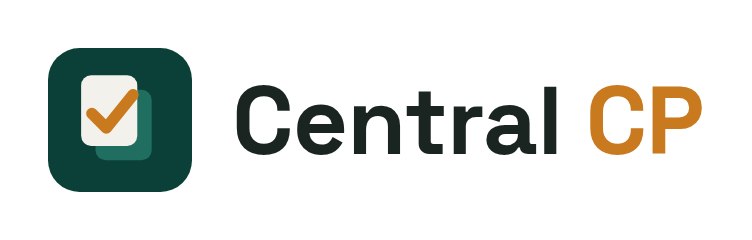
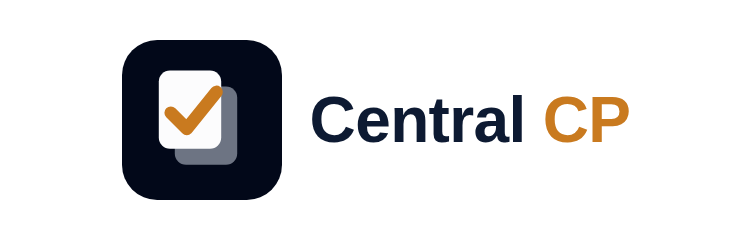
Reskin: nova paleta corporativa em modo escuro (#71)
Substitui o tema claro (fundo bege, marca verde) pela paleta corporativa
nova (Azul Profundo/Noturno, Preto Executivo, Branco Corporativo, Cinza
Técnico/Neutro) -- app em modo escuro por padrão. Como a paleta só tem 6
cores fixas, algumas variações precisaram ser derivadas: os "-soft"
semânticos (amber/alert/good/info) viram a própria cor em baixa opacidade;
--brand-light e --brand-soft são o Azul Profundo clareado (40% e 20% em
direção ao branco) e passam a ser usados também como TEXTO onde antes era
--brand-dark, que ficou escuro demais pra ler depois que o fundo virou
preto (note-box, lote-badge, chat-bubble.pergunta, form-section-title,
etc.).

Ícone e wordmark recoloridos pra bater com a paleta nova (fundo/borda/
folha do documento no SVG da marca), com os PNGs do PWA (favicon,
apple-touch-icon, ícones 192/512/maskable) e o lockup do README
regenerados a partir do SVG atualizado.

Claude-Session: https://claude.ai/code/session_0115Ef8fjvBWV4XGmwLk9xa6

Changed region(s): [[0.0612, 0.1458, 0.9481, 0.8458]]

diff --git a/src/css/styles.css b/src/css/styles.css
@@ -1,24 +1,38 @@
 :root{
-    --ink:#1A2421; --ink-soft:#5B6B63; --paper:#F2F1EC; --surface:#FFFFFF; --line:#DCDCD2;
-    --brand:#0F5C52; --brand-dark:#0A4038; --brand-light:#1F6E5F; --brand-soft:#E3EEEB;
-    --amber:#C97A1F; --amber-soft:#FBEEDC;
-    --alert:#B3431F; --alert-soft:#FAE7DD;
-    --good:#2E7D52; --good-soft:#E5F1E9;
-    --info:#2E5EAA; --info-soft:#E1E9F7;
-    --gray-soft:#ECEBE4;
-    /* Rampa ordinal (uma cor só, claro->escuro) pras 5 etapas "em andamento"
+    /* Paleta corporativa (Azul Profundo/Noturno, Preto Executivo, Branco
+       Corporativo, Cinza Técnico/Neutro) -- app em modo escuro por padrão.
+       A paleta só tem 6 cores fixas; onde não havia um tom "claro"/pastel
+       pronto pra fundo de badge ou um tom vibrante pra contraste em cima do
+       fundo quase preto, derivei (marcado abaixo): "-soft" das cores
+       semânticas (amber/alert/good/info) vira a própria cor em baixa
+       opacidade (se adapta sozinha ao fundo escuro). Já --brand-soft e
+       --brand-light são o Azul Profundo clareado em direção ao branco (20%
+       e 40%) -- ficam cores SÓLIDAS, não translúcidas, porque testei
+       contraste real: uma versão translúcida do Azul Profundo (que já é
+       bem escuro) quase não se distingue do fundo já escuro por trás;
+       --brand-light passa 4.5:1 de contraste sobre --paper, então também
+       vira o texto "de marca" onde antes era --brand-dark (que ficou
+       escuro demais pra ler como texto depois que o fundo virou preto). */
+    --ink:#FCFCFD; --ink-soft:#5F636B; --paper:#00010B; --surface:#020819; --line:#BABABE;
+    --line-soft:rgba(186,186,190,0.18);
+    --brand:#0D1A32; --brand-dark:#020819; --brand-light:#6D7483; --brand-soft:#3D475B;
+    --amber:#C97A1F; --amber-soft:rgba(201,122,31,0.18);
+    --alert:#B3431F; --alert-soft:rgba(179,67,31,0.18);
+    --good:#2E7D52; --good-soft:rgba(46,125,82,0.18);
+    --info:#2E5EAA; --info-soft:rgba(46,94,170,0.18);
+    --gray-soft:rgba(95,99,107,0.18);
+    /* Rampa ordinal (uma cor só, clara->escura) pras 5 etapas "em andamento"
        da esteira (lançado -> aprovado -> lançado no Group -> chamado aberto
        -> validado CSC) -- mostra a ORDEM da esteira em vez de uma cor
        arbitrária por etapa (que não tem nenhum significado categórico
        verdadeiro; é uma progressão, não uma lista de opções). "Pago" e
        "Cancelada" continuam com cor própria (--good/--alert) por serem
-       estados terminais de verdade, não passos no meio do caminho. Validado
-       com o script validate_palette.js (skill dataviz): todos os 5 passos
-       cobrem 4.5:1 de contraste como texto sobre --paper, e a rampa lê como
-       progressão (L monotônica, mesmo hue, degraus >= 0.06 em OKLCH).
+       estados terminais de verdade, não passos no meio do caminho.
+       Reconstruída na família do Azul Profundo (mistura em direção ao
+       branco) pra continuar legível como texto sobre o novo --paper escuro.
     */
-    --seq-1:#167669; --seq-2:#105B51; --seq-3:#0B443D; --seq-4:#062D28; --seq-5:#031714;
-    --shadow: 0 1px 2px rgba(20,30,26,0.06), 0 4px 16px rgba(20,30,26,0.06);
+    --seq-1:#6E86B8; --seq-2:#4C6491; --seq-3:#33456B; --seq-4:#1D2C48; --seq-5:#0D1A32;
+    --shadow: 0 1px 2px rgba(0,0,0,0.35), 0 4px 16px rgba(0,0,0,0.45);
   }
   *{box-sizing:border-box;}
   body{margin:0; background:var(--paper); color:var(--ink); font-family:'Inter',sans-serif; font-size:14px; line-height:1.5;}
@@ -65,7 +79,7 @@
   .anexos-lista li a[data-mover-anexo-novo]{color:var(--ink-soft); font-size:13px;}
   .anexos-lista li a[data-mover-anexo-novo]:hover{color:var(--brand);}
   .btn{border:none; border-radius:8px; padding:10px 18px; font-weight:600; font-size:13px; display:inline-flex; align-items:center; gap:6px;}
-  .btn-brand{background:var(--brand); color:#fff;}
+  .btn-brand{background:var(--brand); color:var(--ink); border:1px solid var(--brand-light);}
   .btn-brand:hover{background:var(--brand-dark);}
   .btn-block{width:100%; justify-content:center; padding:11px;}
   .btn-ghost{background:transparent; color:var(--ink-soft); border:1px solid var(--line);}
@@ -77,13 +91,13 @@
      brigando/vencendo dela sem querer -- foi exatamente esse bug que fez
      "+ Nova nota" perder o fundo amber (ver histórico do CSS). */
   .btn-ghost-dark{background:transparent; color:rgba(255,255,255,0.85); border:1px solid rgba(255,255,255,0.2);}
-  .btn-ghost-dark:hover{background:rgba(255,255,255,0.08); color:#fff;}
-  .btn-amber{background:var(--amber); color:#fff;}
-  .btn-alert{background:var(--alert); color:#fff;}
-  .btn-good{background:var(--good); color:#fff;}
+  .btn-ghost-dark:hover{background:rgba(255,255,255,0.08); color:var(--ink);}
+  .btn-amber{background:var(--amber); color:var(--ink);}
+  .btn-alert{background:var(--alert); color:var(--ink);}
+  .btn-good{background:var(--good); color:var(--ink);}
   .btn-sm{padding:7px 12px; font-size:12px;}
   .err-msg{background:var(--alert-soft); color:var(--alert); padding:10px 12px; border-radius:8px; font-size:13px; margin-bottom:14px;}
-  .note-box{background:var(--brand-soft); color:var(--brand-dark); padding:10px 12px; border-radius:8px; font-size:12px; margin-bottom:16px;}
+  .note-box{background:var(--brand-soft); color:var(--brand-light); padding:10px 12px; border-radius:8px; font-size:12px; margin-bottom:16px;}
 
   /* ---------- App shell ---------- */
   .shell{display:flex; min-height:100vh; position:relative;}
@@ -93,7 +107,7 @@
      mundo com ela. Fixa a sidebar no viewport; overflow-y:auto deixa ELA
      MESMA rolar por dentro se algum dia tiver nav item demais, sem
      depender do tamanho do conteúdo principal.  */
-  .sidebar{width:240px; background:var(--brand-dark); color:#fff; flex-shrink:0; display:flex; flex-direction:column; padding:20px 16px; position:sticky; top:0; height:100vh; overflow-y:auto; transition:width .18s ease, padding .18s ease;}
+  .sidebar{width:240px; background:var(--brand-dark); color:var(--ink); flex-shrink:0; display:flex; flex-direction:column; padding:20px 16px; position:sticky; top:0; height:100vh; overflow-y:auto; transition:width .18s ease, padding .18s ease;}
   /* Sidebar retrátil (pedido do dono do produto: notebook pequeno + monitor
      externo quer ganhar espaço) -- recolhe a largura a zero em vez de um
      modo "só ícones", porque os itens de nav não têm ícone próprio hoje.
@@ -113,10 +127,10 @@
   .role-pill{display:inline-block; margin-top:5px; font-size:10.5px; font-weight:700; letter-spacing:0.04em; text-transform:uppercase; padding:2px 8px; border-radius:99px; background:rgba(255,255,255,0.18);}
   .sb-nav{display:flex; flex-direction:column; gap:3px; flex:1;}
   .sb-nav button{text-align:left; background:transparent; border:none; color:rgba(255,255,255,0.78); padding:9px 11px; border-radius:8px; font-size:13.5px; font-weight:500; display:flex; justify-content:space-between; align-items:center;}
-  .sb-nav button:hover{background:rgba(255,255,255,0.08); color:#fff;}
-  .sb-nav button.active{background:rgba(255,255,255,0.16); color:#fff; font-weight:600;}
+  .sb-nav button:hover{background:rgba(255,255,255,0.08); color:var(--ink);}
+  .sb-nav button.active{background:rgba(255,255,255,0.16); color:var(--ink); font-weight:600;}
   .sb-nav .count{background:rgba(255,255,255,0.16); border-radius:99px; font-size:11px; padding:1px 7px; font-family:'JetBrains Mono';}
-  .sb-nav button.active .count{background:var(--amber); color:#fff;}
+  .sb-nav button.active .count{background:var(--amber); color:var(--ink);}
   .sb-bottom{display:flex; flex-direction:column; gap:6px; margin-top:12px;}
 
   .main{flex:1; min-width:0; padding:28px 36px;}
@@ -201,7 +215,7 @@
      Classificação contábil / Descrição) em vez de uma lista única empilhada
      -- cada seção fica fácil de escanear e pular pra próxima sem reler tudo. */
   .form-section{background:var(--surface); border:1px solid var(--line); border-radius:12px; padding:18px 20px; margin-bottom:16px;}
-  .form-section-title{margin:0 0 16px; font-size:13px; font-weight:700; color:var(--brand-dark); text-transform:uppercase; letter-spacing:0.03em; padding-bottom:10px; border-bottom:1px solid var(--line);}
+  .form-section-title{margin:0 0 16px; font-size:13px; font-weight:700; color:var(--brand-light); text-transform:uppercase; letter-spacing:0.03em; padding-bottom:10px; border-bottom:1px solid var(--line);}
   .form-section .field:last-child{margin-bottom:0;}
 
   /* ---------- Formulário/detalhe de nota como página inteira ---------- */
@@ -245,7 +259,12 @@
 
   /* ---------- Toast (substitui alert()) ---------- */
   .toast-container{position:fixed; bottom:20px; right:20px; z-index:200; display:flex; flex-direction:column; gap:8px; max-width:340px;}
-  .toast{background:var(--ink); color:#fff; padding:12px 16px; border-radius:8px; box-shadow:var(--shadow); font-size:13px; line-height:1.4; opacity:0; transform:translateY(8px); transition:opacity .2s ease, transform .2s ease; cursor:pointer;}
+  /* Antes usava --ink como fundo (bolha escura/texto claro, independente
+     do tema) -- com o reskin escuro, --ink virou o branco do texto, então
+     o toast passa a se apoiar em --surface (levemente mais claro que o
+     --paper da página) + borda, pra continuar se destacando como um card
+     flutuante. */
+  .toast{background:var(--surface); color:var(--ink); border:1px solid var(--line-soft); padding:12px 16px; border-radius:8px; box-shadow:var(--shadow); font-size:13px; line-height:1.4; opacity:0; transform:translateY(8px); transition:opacity .2s ease, transform .2s ease; cursor:pointer;}
   .toast.show{opacity:1; transform:translateY(0);}
   .toast-error{background:var(--alert);}
   .toast-success{background:var(--good);}
@@ -267,7 +286,7 @@
   .lote-tbl .combo-list{min-width:220px;}
   .lote-tbl tr.lote-erro td{background:var(--alert-soft);}
   .lote-linha-erro{font-size:12px; color:var(--alert); padding:2px 4px;}
-  .lote-badge{display:inline-block; font-size:11.5px; padding:4px 10px; border-radius:999px; background:var(--brand-soft); color:var(--brand-dark); white-space:nowrap;}
+  .lote-badge{display:inline-block; font-size:11.5px; padding:4px 10px; border-radius:999px; background:var(--brand-soft); color:var(--brand-light); white-space:nowrap;}
 
   /* ---------- Auditoria de anexos (leitor de documentos) ---------- */
   .auditoria-anexos{background:var(--paper); border:1px solid var(--line); border-radius:10px; padding:12px; margin-top:10px;}
@@ -301,7 +320,7 @@
      flex de altura mínima 100vh; cada card recebe flex:1 (photo/PDF
      dividem a altura igualmente se houver mais de um anexo, com um piso
      de 280px -- se não couber tudo, a JANELA rola, não cada card). */
-  .preview-externo-pagina{margin:0; padding:16px; box-sizing:border-box; min-height:100vh; background:var(--paper, #f4f5f3); display:flex; flex-direction:column;}
+  .preview-externo-pagina{margin:0; padding:16px; box-sizing:border-box; min-height:100vh; background:var(--paper, #00010B); display:flex; flex-direction:column;}
   .preview-externo-pagina #preview-externo-conteudo{display:flex; flex-direction:column; gap:14px; flex:1; min-height:0;}
   .preview-card{display:flex; flex-direction:column; flex:1; min-height:280px;}
   .preview-titulo{display:flex; align-items:center; justify-content:space-between; gap:8px; font-size:11.5px; font-weight:600; color:var(--ink-soft); margin-bottom:6px; flex:none;}
@@ -320,10 +339,10 @@
   .preview-pdf{width:100%; flex:1; min-height:0; border:1px solid var(--line); border-radius:8px;}
   .preview-indisponivel{font-size:12px; color:var(--ink-soft); background:var(--paper); border:1px solid var(--line); border-radius:8px; padding:10px; flex:none;}
   .selecao-instrucao{display:flex; align-items:center; justify-content:space-between; gap:10px; padding:10px 12px; background:var(--brand-soft); border:1px solid var(--brand-light); border-radius:8px; margin-bottom:12px; flex:none;}
-  .selecao-instrucao p{margin:0; font-size:13px; color:var(--brand-dark);}
+  .selecao-instrucao p{margin:0; font-size:13px; color:var(--brand-light);}
   .selecao-imagem-wrap{position:relative; display:inline-block; align-self:center; max-width:100%; margin:0 auto; cursor:crosshair;}
   .selecao-imagem{display:block; max-width:100%; max-height:75vh; -webkit-user-select:none; user-select:none;}
-  .selecao-retangulo{position:absolute; border:2px dashed var(--brand); background:rgba(15,92,82,0.15); pointer-events:none;}
+  .selecao-retangulo{position:absolute; border:2px dashed var(--brand); background:rgba(13,26,50,0.15); pointer-events:none;}
   .selecao-pagina-nav{display:flex; align-items:center; justify-content:center; gap:12px; margin-top:10px; font-size:12.5px; color:var(--ink-soft); flex:none;}
   .chat-vazio{font-size:12.5px; color:var(--ink-soft);}
   .chat-thread{margin-bottom:16px; padding-bottom:14px; border-bottom:1px solid var(--line);}
@@ -332,10 +351,10 @@
   .chat-bubble{border-radius:10px; padding:8px 12px; font-size:12.5px; margin-bottom:6px; line-height:1.4;}
   .chat-bubble.sistema{background:var(--paper); border:1px solid var(--line);}
   .chat-bubble.pergunta{background:var(--brand-soft); border:1px solid var(--brand-light); color:var(--ink);}
-  .chat-bubble.resposta{background:var(--brand); color:#fff; margin-left:18px;}
+  .chat-bubble.resposta{background:var(--brand); color:var(--ink); margin-left:18px;}
   .chat-candidatos{display:flex; flex-wrap:wrap; gap:6px; margin:6px 0;}
   .chat-chip{border:1px solid var(--line); background:var(--surface); border-radius:999px; padding:4px 10px; font-size:12px; cursor:pointer; color:var(--ink);}
-  .chat-chip:hover{border-color:var(--brand); color:var(--brand-dark);}
+  .chat-chip:hover{border-color:var(--brand); color:var(--brand-light);}
   .chat-form-manual{display:flex; gap:6px; margin-top:2px;}
   .chat-form-manual input{flex:1; padding:6px 8px; border:1px solid var(--line); border-radius:6px; font-size:12px; background:var(--paper); color:var(--ink);}
   .chat-form-manual button{white-space:nowrap;}

diff --git a/src/css/mobile.css b/src/css/mobile.css
@@ -19,7 +19,7 @@
    elemento).  */
 .m-app{min-height:100vh; min-height:100dvh; display:flex; flex-direction:column; background:var(--paper); overflow-x:hidden;}
 
-.m-header{position:sticky; top:0; z-index:40; display:flex; align-items:center; gap:10px; padding:12px 16px; background:var(--brand-dark); color:#fff;}
+.m-header{position:sticky; top:0; z-index:40; display:flex; align-items:center; gap:10px; padding:12px 16px; background:var(--brand-dark); color:var(--ink);}
 .m-header .m-logo{display:flex; align-items:center; gap:8px; font-family:'Space Grotesk',sans-serif; font-weight:700; font-size:15px;}
 .m-header .m-logo .mark{width:28px; height:28px; flex:none; display:flex;}
 .m-header .m-logo .mark svg{width:100%; height:100%; display:block;}
@@ -28,7 +28,7 @@
 /* Botão hambúrguer — 3 barrinhas simples, sem ícone externo. */
 .m-menu-btn{flex:none; width:36px; height:36px; display:flex; align-items:center; justify-content:center; background:transparent; border:none; padding:0; margin:0 -6px 0 -8px;}
 .m-menu-icon{width:20px; height:14px; display:flex; flex-direction:column; justify-content:space-between;}
-.m-menu-icon span{display:block; width:100%; height:2px; border-radius:2px; background:#fff;}
+.m-menu-icon span{display:block; width:100%; height:2px; border-radius:2px; background:var(--ink);}
 
 /* Gaveta lateral — escondida fora da tela (translateX), desliza pra
    dentro quando .open. Mesmo conteúdo/estrutura da .sidebar do desktop
@@ -44,9 +44,9 @@
 
 .m-drawer-nav{flex:1; min-height:0; overflow-y:auto; display:flex; flex-direction:column; gap:2px; padding:10px;}
 .m-drawer-nav button{display:flex; align-items:center; justify-content:space-between; gap:8px; width:100%; text-align:left; background:transparent; border:none; border-radius:9px; padding:11px 12px; font-size:13.5px; font-weight:600; color:var(--ink-soft);}
-.m-drawer-nav button.active{background:var(--brand-soft); color:var(--brand-dark);}
+.m-drawer-nav button.active{background:var(--brand-soft); color:var(--brand-light);}
 .m-drawer-nav button .count{background:var(--gray-soft); border-radius:99px; font-size:10.5px; padding:1px 7px; font-family:'JetBrains Mono',monospace; color:var(--ink-soft);}
-.m-drawer-nav button.active .count{background:rgba(255,255,255,0.6);}
+.m-drawer-nav button.active .count{background:rgba(0,0,0,0.3); color:var(--ink);}
 
 .m-drawer-bottom{padding:12px 10px calc(12px + env(safe-area-inset-bottom)); border-top:1px solid var(--line); display:flex; flex-direction:column; gap:4px;}
 .m-drawer-bottom button{width:100%; text-align:left; background:transparent; border:none; border-radius:9px; padding:10px 12px; font-size:13px; font-weight:600; color:var(--ink-soft);}
@@ -72,7 +72,7 @@
 
 /* Botão flutuante de "+ Nova nota" — só aparece quando existe alguma tab
    ativa e não há modal de página aberto (ver renderShellMobile). */
-.m-fab{position:fixed; right:18px; bottom:18px; z-index:41; width:56px; height:56px; border-radius:50%; background:var(--amber); color:#fff; border:none; font-size:26px; line-height:1; box-shadow:var(--shadow); display:flex; align-items:center; justify-content:center;}
+.m-fab{position:fixed; right:18px; bottom:18px; z-index:41; width:56px; height:56px; border-radius:50%; background:var(--amber); color:var(--ink); border:none; font-size:26px; line-height:1; box-shadow:var(--shadow); display:flex; align-items:center; justify-content:center;}
 
 /* Modal de ação rápida (aprovar, marcar pendência, lote do CP) continua
    como um overlay central — só ajusta o respiro lateral pra caber melhor

diff --git a/src/js/brand.js b/src/js/brand.js
@@ -6,9 +6,9 @@
 // a partir dele). Mantém os dois em sincronia manualmente: qualquer
 // mudança de desenho precisa ser feita nos dois lugares.
 export const ICON_MARK_SVG = `<svg viewBox="0 0 100 100" xmlns="http://www.w3.org/2000/svg" aria-hidden="true">
-  <rect width="100" height="100" rx="22" fill="#0A4038"/>
-  <rect x="33" y="29" width="39" height="49" rx="7" fill="#1F6E5F"/>
-  <rect x="23" y="19" width="39" height="49" rx="7" fill="#F2F1EC"/>
+  <rect width="100" height="100" rx="22" fill="#020819"/>
+  <rect x="33" y="29" width="39" height="49" rx="7" fill="#6D7483"/>
+  <rect x="23" y="19" width="39" height="49" rx="7" fill="#FCFCFD"/>
   <path d="M 30.5 45.5 L 40.5 55.5 L 59 32.5" fill="none" stroke="#C97A1F" stroke-width="8" stroke-linecap="round" stroke-linejoin="round"/>
 </svg>`;
 
@@ -16,7 +16,7 @@ export const ICON_MARK_SVG = `<svg viewBox="0 0 100 100" xmlns="http://www.w3.or
 // é --brand-dark (sidebar, header mobile), onde o quadrado do ícone ficaria
 // duplicado/invisível por cima de um fundo igual.
 export const ICON_MARK_SVG_TRANSPARENT = `<svg viewBox="0 0 100 100" xmlns="http://www.w3.org/2000/svg" aria-hidden="true">
-  <rect x="33" y="29" width="39" height="49" rx="7" fill="#1F6E5F"/>
-  <rect x="23" y="19" width="39" height="49" rx="7" fill="#F2F1EC"/>
+  <rect x="33" y="29" width="39" height="49" rx="7" fill="#6D7483"/>
+  <rect x="23" y="19" width="39" height="49" rx="7" fill="#FCFCFD"/>
   <path d="M 30.5 45.5 L 40.5 55.5 L 59 32.5" fill="none" stroke="#C97A1F" stroke-width="8" stroke-linecap="round" stroke-linejoin="round"/>
 </svg>`;

diff --git a/index.html b/index.html
@@ -4,7 +4,7 @@
 <meta charset="UTF-8">
 <meta name="viewport" content="width=device-width, initial-scale=1.0">
 <title>Central CP</title>
-<meta name="theme-color" content="#0A4038">
+<meta name="theme-color" content="#020819">
 <link rel="manifest" href="manifest.json">
 <link rel="icon" href="src/icons/favicon-32.png" type="image/png">
 <link rel="apple-touch-icon" href="src/icons/apple-touch-icon.png">
